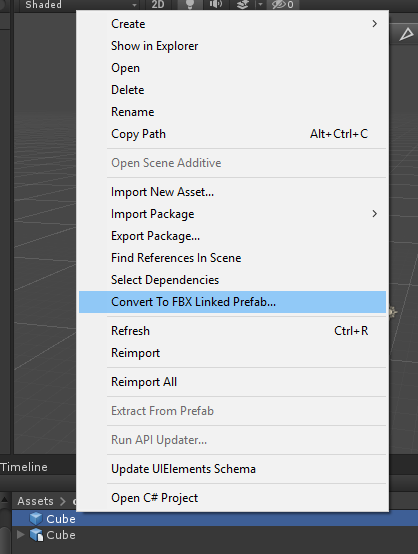
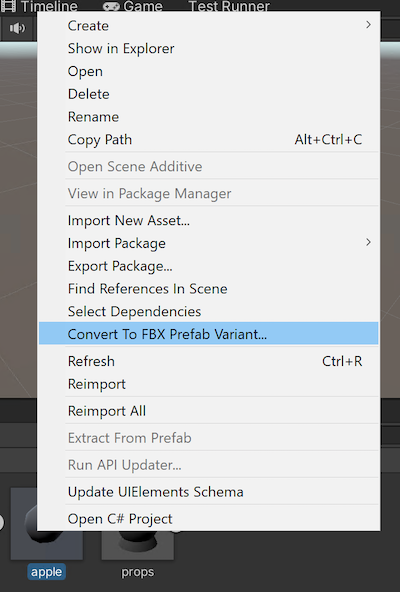
UT-3314 Export FBX Linked Prefab Rename to Export FBX Prefab Variant (#529)
Rename menu items from 'linked prefab' to 'prefab variant'.
Update docs to make prefab variant more clear.
Update images in docs for new menu options.

diff --git a/com.unity.formats.fbx/Editor/ConvertToPrefabEditorWindow.cs b/com.unity.formats.fbx/Editor/ConvertToPrefabEditorWindow.cs
@@ -286,7 +286,7 @@ namespace UnityEditor.Formats.Fbx.Exporter
             GUILayout.BeginHorizontal();
             EditorGUILayout.LabelField(new GUIContent(
                 "Prefab Path",
-                "Relative path for saving Linked Prefabs."), GUILayout.Width(LabelWidth - FieldOffset));
+                "Relative path for saving FBX Prefab Variants."), GUILayout.Width(LabelWidth - FieldOffset));
 
             var pathLabels = ExportSettings.GetRelativePrefabSavePaths();
 
@@ -297,7 +297,7 @@ namespace UnityEditor.Formats.Fbx.Exporter
                 string initialPath = Application.dataPath;
 
                 string fullPath = EditorUtility.OpenFolderPanel(
-                    "Select Linked Prefab Save Path", initialPath, null
+                    "Select FBX Prefab Variant Save Path", initialPath, null
                 );
 
                 // Unless the user canceled, make sure they chose something in the Assets folder.

diff --git a/com.unity.formats.fbx/Editor/ConvertToNestedPrefab.cs b/com.unity.formats.fbx/Editor/ConvertToNestedPrefab.cs
@@ -34,10 +34,10 @@ namespace UnityEditor.Formats.Fbx.Exporter
 
     internal static class ConvertToNestedPrefab
     {
-        const string GameObjectMenuItemName = "GameObject/Convert To FBX Linked Prefab...";
-        const string AssetsMenuItemName = "Assets/Convert To FBX Linked Prefab...";
-        const string UndoConversionGroup = "Convert {0} to FBX Linked Prefab";
-        internal const string UndoConversionCreateObject = "Convert to FBX Linked Prefab";
+        const string GameObjectMenuItemName = "GameObject/Convert To FBX Prefab Variant...";
+        const string AssetsMenuItemName = "Assets/Convert To FBX Prefab Variant...";
+        const string UndoConversionGroup = "Convert {0} to FBX Prefab Variant";
+        internal const string UndoConversionCreateObject = "Convert to FBX Prefab Variant";
 
         /// <summary>
         /// OnContextItem is called either:

diff --git a/com.unity.formats.fbx/Editor/FbxExportSettings.cs b/com.unity.formats.fbx/Editor/FbxExportSettings.cs
@@ -71,7 +71,7 @@ namespace UnityEditor.Formats.Fbx.Exporter {
             EditorGUILayout.LabelField("Export Options", EditorStyles.boldLabel);
             EditorGUI.indentLevel++;
             exportSettings.ShowConvertToPrefabDialog = EditorGUILayout.Toggle(
-                new GUIContent("Show Convert UI:", "Show the Convert dialog when converting to an FBX Linked Prefab"),
+                new GUIContent("Show Convert UI:", "Show the Convert dialog when converting to an FBX Prefab Variant"),
                 exportSettings.ShowConvertToPrefabDialog
             );
             EditorGUILayout.Space();

diff --git a/com.unity.formats.fbx/Documentation~/prefabs.md b/com.unity.formats.fbx/Documentation~/prefabs.md
@@ -6,21 +6,21 @@ When Unity imports a Model from a 3D modeling application such as Autodesk® May
 
 ![A Model Prefab in the Scene and Hierarchy views](images/FBXExporter_ModelPrefab.png)
 
-If you want to add components, Materials, or change most other property values without affecting the original FBX file in Unity, convert the Model Prefab to an **FBX Linked Prefab**. This is a Prefab Variant of the exported FBX's Model Prefab. Prefab Variants allow you to override their base Prefabs' properties.
+If you want to add components, Materials, or change most other property values without affecting the original FBX file in Unity, convert the Model Prefab to an **FBX Prefab Variant**. This is a Prefab Variant of the exported FBX's Model Prefab. Prefab Variants allow you to override their base Prefabs' properties.
 
-Using FBX Linked Prefabs is the best way to ensure that your Models continue to reflect any changes you make to your FBX files in external applications while still taking full advantage of the Prefab system.
+Using FBX Prefab Variants is the best way to ensure that your Models continue to reflect any changes you make to your FBX files in external applications while still taking full advantage of the Prefab system.
 
 In addition, you can use Variants to control updates from external applications. For example, if you have a Model with a Spot Light of size 10 and you override the size to 1 in your Variant, when the size and color change in the FBX file, the color changes but the size remains 1.
 
 > **IMPORTANT:** Because the Prefab Variant inherits data from the base Model Prefab, you cannot make structural changes to the Prefab Variant. This means that you cannot delete inherited child objects or re-arrange the order of inherited child objects on the Prefab Variant. 
 
-### Creating an FBX Linked Prefab
+### Creating an FBX Prefab Variant
 
-You can either create an FBX Linked Prefab [from a GameObject](#fromGameObject) or generate it directly [from the selected .fbx or .prefab file](#fromFBXorAssetFile). If you are upgrading from version 2.0.1-preview or earlier of the FBX Exporter, you can also [convert any existing](#conversion) Linked Prefabs you may have to the new FBX Linked Prefabs.
+You can either create an FBX Prefab Variant [from a GameObject](#fromGameObject) or generate it directly [from the selected .fbx or .prefab file](#fromFBXorAssetFile). If you are upgrading from version 2.0.1-preview or earlier of the FBX Exporter, you can also [convert any existing](#conversion) Linked Prefabs you may have to the new FBX Prefab Variants.
 
-When you convert a GameObject to an FBX Linked Prefab, the FBX Exporter exports each selected GameObject hierarchy and writes an FBX file and a Prefab Variant (`.prefab`) with the FBX as its base. 
+When you convert a GameObject to an FBX Prefab Variant, the FBX Exporter exports each selected GameObject hierarchy and writes an FBX file and a Prefab Variant (`.prefab`) with the FBX as its base. 
 
-When you generate an FBX Linked Prefab from a selected file, the FBX Exporter generates the FBX Linked Prefab without modifying the Scene: 
+When you generate an FBX Prefab Variant from a selected file, the FBX Exporter generates the FBX Prefab Variant without modifying the Scene: 
 
 * If you select an FBX file, the FBX Exporter generates a Prefab Variant Asset file. 
 * If you select a Prefab Asset file, the FBX Exporter generates a Prefab Variant Asset file and an FBX file.
@@ -30,44 +30,44 @@ When you generate an FBX Linked Prefab from a selected file, the FBX Exporter ge
 <a name="fromGameObject"></a>
 #### Converting a GameObject
 
-To replace the GameObject hierarchy with an instance of an FBX Linked Prefab: 
+To replace the GameObject hierarchy with an instance of an FBX Prefab Variant: 
 
-1. Right-click on the GameObject in the Hierarchy view and select __Convert To FBX Linked Prefab__ from the context menu.
+1. Right-click on the GameObject in the Hierarchy view and select __Convert To FBX Prefab Variant__ from the context menu.
 
-	![Convert GameObject to FBX Linked Prefab](images/FBXExporter_FBXLinkedPrefab-GameObject.png)
+	![Convert GameObject to FBX Prefab Variant](images/FBXExporter_FBXLinkedPrefab-GameObject.png)
 
-	Alternatively, you can use the main menu: __GameObject__ > __Convert To FBX Linked Prefab__ with the GameObject selected.
+	Alternatively, you can use the main menu: __GameObject__ > __Convert To FBX Prefab Variant__ with the GameObject selected.
 
 2. Specify how you want to export the GameObject using the properties on the [Convert Options](#ConvertOptions) window and click **Convert**.
 
-FBX Linked Prefabs use the same rules as for exporting: all selected objects and their descendants are exported to a single FBX file. If you select both a parent and a descendant, the FBX Linked Prefab only exports the parent’s hierarchy.
+FBX Prefab Variants use the same rules as for exporting: all selected objects and their descendants are exported to a single FBX file. If you select both a parent and a descendant, the FBX Prefab Variant only exports the parent’s hierarchy.
 
-> **NOTE:** If the selected object is a Model Prefab instance, then the hierarchy is not re-exported: instead the FBX Linked Prefab links to the FBX file that already exists.
+> **NOTE:** If the selected object is a Model Prefab instance, then the hierarchy is not re-exported: instead the FBX Prefab Variant links to the FBX file that already exists.
 
 <a name="fromFBXorAssetFile"></a>
 #### Converting an FBX file or a Prefab
 
-To generate the FBX Linked Prefab from the selected file without modifying the Scene:
+To generate the FBX Prefab Variant from the selected file without modifying the Scene:
 
-1. Right-click on an FBX or Prefab Asset file in the Project view and select __Convert To FBX Linked Prefab__ from the context menu.
+1. Right-click on an FBX or Prefab Asset file in the Project view and select __Convert To FBX Prefab Variant__ from the context menu.
 
 	![Convert Prefab file to FBX Linked Prefab](images/FBXExporter_FBXLinkedPrefab-Asset.png)
 
-	Alternatively, you can use the main menu: __Assets__ > __Convert To FBX Linked Prefab__.
+	Alternatively, you can use the main menu: __Assets__ > __Convert To FBX Prefab Variant__.
 
 2. Specify how you want to export the GameObject using the properties on the [Convert Options](#ConvertOptions) window and click **Convert**.
 
-Depending on which type of file you selected, the FBX Exporter creates the FBX Linked Prefab in one of the following ways:
+Depending on which type of file you selected, the FBX Exporter creates the FBX Prefab Variant in one of the following ways:
 
 * If an FBX file is selected, the FBX Exporter generates a Prefab Variant file with the selected FBX file as its base.
-* If a Prefab Asset file is selected, the FBX Exporter exports the Prefab to an FBX file and creates a new FBX Linked Prefab.
+* If a Prefab Asset file is selected, the FBX Exporter exports the Prefab to an FBX file and creates a new FBX Prefab Variant.
 
 <a name="ConvertOptions"></a>
 ### Convert Options window
 
-When converting to an FBX Linked Prefab, the following window opens, displaying options for exporting:
+When converting to an FBX Prefab Variant, the following window opens, displaying options for exporting:
 
-![Convert Options for an FBX Linked Prefab](images/FBXExporter_ConvertOptionsWindow.png)
+![Convert Options for an FBX Prefab Variant](images/FBXExporter_ConvertOptionsWindow.png)
 
 #### Convert Option properties
 
@@ -75,30 +75,30 @@ When converting to an FBX Linked Prefab, the following window opens, displaying 
 | :------------------------ | :----------------------------------------------------------- |
 | __Export Name__           | Specify the name of the FBX file to export.                  |
 | __Export Path__           | Specify the location where the FBX Exporter will save the FBX file. |
-| __Prefab Name__           | Specify the name of the FBX Linked Prefab's file.            |
-| __Prefab Path__           | Specify the location where the FBX Exporter will save the FBX Linked Prefab file. |
+| __Prefab Name__           | Specify the name of the FBX Prefab Variant's file.            |
+| __Prefab Path__           | Specify the location where the FBX Exporter will save the FBX Prefab Variant file. |
 | __Source__                | Transfer the transform animation from this object to the __Destination__ transform.<br/><br/>**NOTES:**<br/> - __Source__ must be an ancestor of __Destination__.<br/> - __Source__ may be an ancestor of the selected object. |
 | __Destination__           | Which object to transfer the transform animation to.<br/><br/>This object receives the transform animation on objects between __Source__ and __Destination__ as well as the animation on the __Source__ itself. |
 | __Export Format__         | Select the format for the FBX Exporter to use when exporting the FBX file (ASCII or binary). |
-| __Include__               | __Convert to FBX Linked Prefab__ always exports both Models and Animation in the hierarchy. |
-| __LOD level__             | __Convert to FBX Linked Prefab__ always exports All levels of detail (LOD) available in the hierarchy for LOD groups. |
-| __Object(s) Position__    | __Convert to FBX Linked Prefab__ always resets the root object's transform during export. However, the Prefab maintains the global transform for the root object. |
+| __Include__               | __Convert to FBX Prefab Variant__ always exports both Models and Animation in the hierarchy. |
+| __LOD level__             | __Convert to FBX Prefab Variant__ always exports All levels of detail (LOD) available in the hierarchy for LOD groups. |
+| __Object(s) Position__    | __Convert to FBX Prefab Variant__ always resets the root object's transform during export. However, the Prefab maintains the global transform for the root object. |
 | __Animated Skinned Mesh__ | Check this option to export animation on objects with skinned meshes.<br/><br/>If unchecked, the FBX Exporter does not export animation on skinned meshes. |
 | __Compatible Naming__     | Check this option to control renaming the GameObject and Materials during export. <br/><br/>The FBX Exporter ensures compatible naming with Autodesk® Maya® and Autodesk® Maya LT™ to avoid unexpected name changes between Unity and Autodesk® Maya® and Autodesk® Maya LT™. During export the FBX Exporter replaces characters in Unity names as follows:<br/> - Replaces invalid characters with underscores ("\_"). Invalid characters are all non-alphanumeric characters, except for colon (":").<br/> - Adds an underscore ("\_") to names that begin with a number. - Replaces diacritics. For example, replaces "é" with “e”.<br/><br/>**NOTE:** If you have a Material with a space in its name, the space is replaced with an underscore ("_"). This results in a new Material being created when it is imported. For example, the Material named "Default Material" is exported as "Default_Material" and is created as a new Material when it is imported. If you want the exported Material to match an existing Material in the scene, you must manually rename the Material before exporting. |
-| __Don't ask me again__    | Check this option to use the same **Convert Option** properties and hide this window when converting to FBX Linked Prefabs in the future. You can reset this option by turning on the **Show Convert UI** option under **Edit** > **Project Settings** > **Fbx Export** in Unity's top menu. |
+| __Don't ask me again__    | Check this option to use the same **Convert Option** properties and hide this window when converting to FBX Prefab Variants in the future. You can reset this option by turning on the **Show Convert UI** option under **Edit** > **Project Settings** > **Fbx Export** in Unity's top menu. |
 
 > **NOTE:** For FBX Model filenames, the FBX Exporter ensures that names do not contain invalid characters for the file system. The set of invalid characters may differ between file systems.
 
 
 
 <a name="conversion"></a>
-### Converting from Linked Prefabs to FBX Linked Prefabs
+### Converting from Linked Prefabs to FBX Prefab Variants
 
-To convert existing Linked Prefabs to FBX Linked Prefabs, follow these steps:
+To convert existing Linked Prefabs to FBX Prefab Variants, follow these steps:
 
-1. Fix any name discrepancies before converting. FBX Linked Prefabs do not handle name remapping. If you start to add game logic to components, and then the objects in the FBX get renamed, you are at risk of losing the components. This can happen because the old GameObjects are deleted and new objects with the new names are added in their place.
+1. Fix any name discrepancies before converting. FBX Prefab Variants do not handle name remapping. If you start to add game logic to components, and then the objects in the FBX get renamed, you are at risk of losing the components. This can happen because the old GameObjects are deleted and new objects with the new names are added in their place.
 
-2. Right-click the Linked Prefab file and select **Convert to FBX Linked Prefab** from the context menu.
+2. Right-click the Linked Prefab file and select **Convert to FBX Prefab Variant** from the context menu.
 
 	![Create a Prefab variant from the file's context menu](images/FBXExporter_FBXLinkedPrefab-Asset.png)
 
